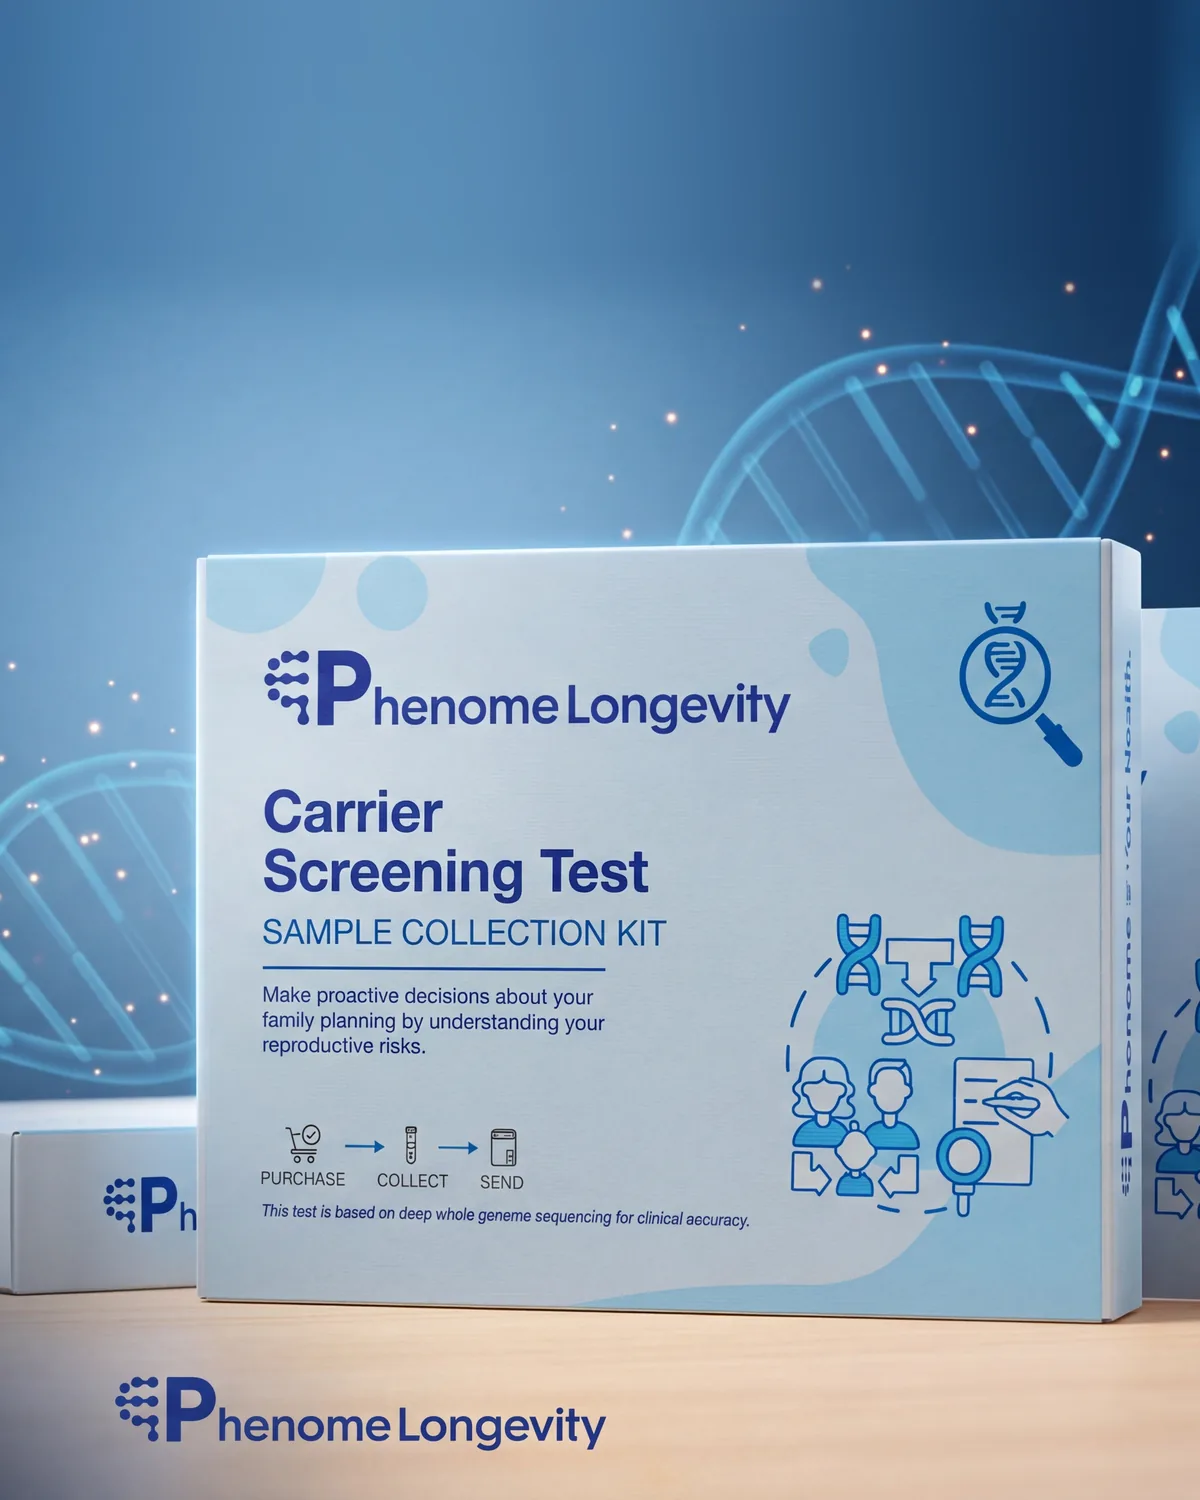
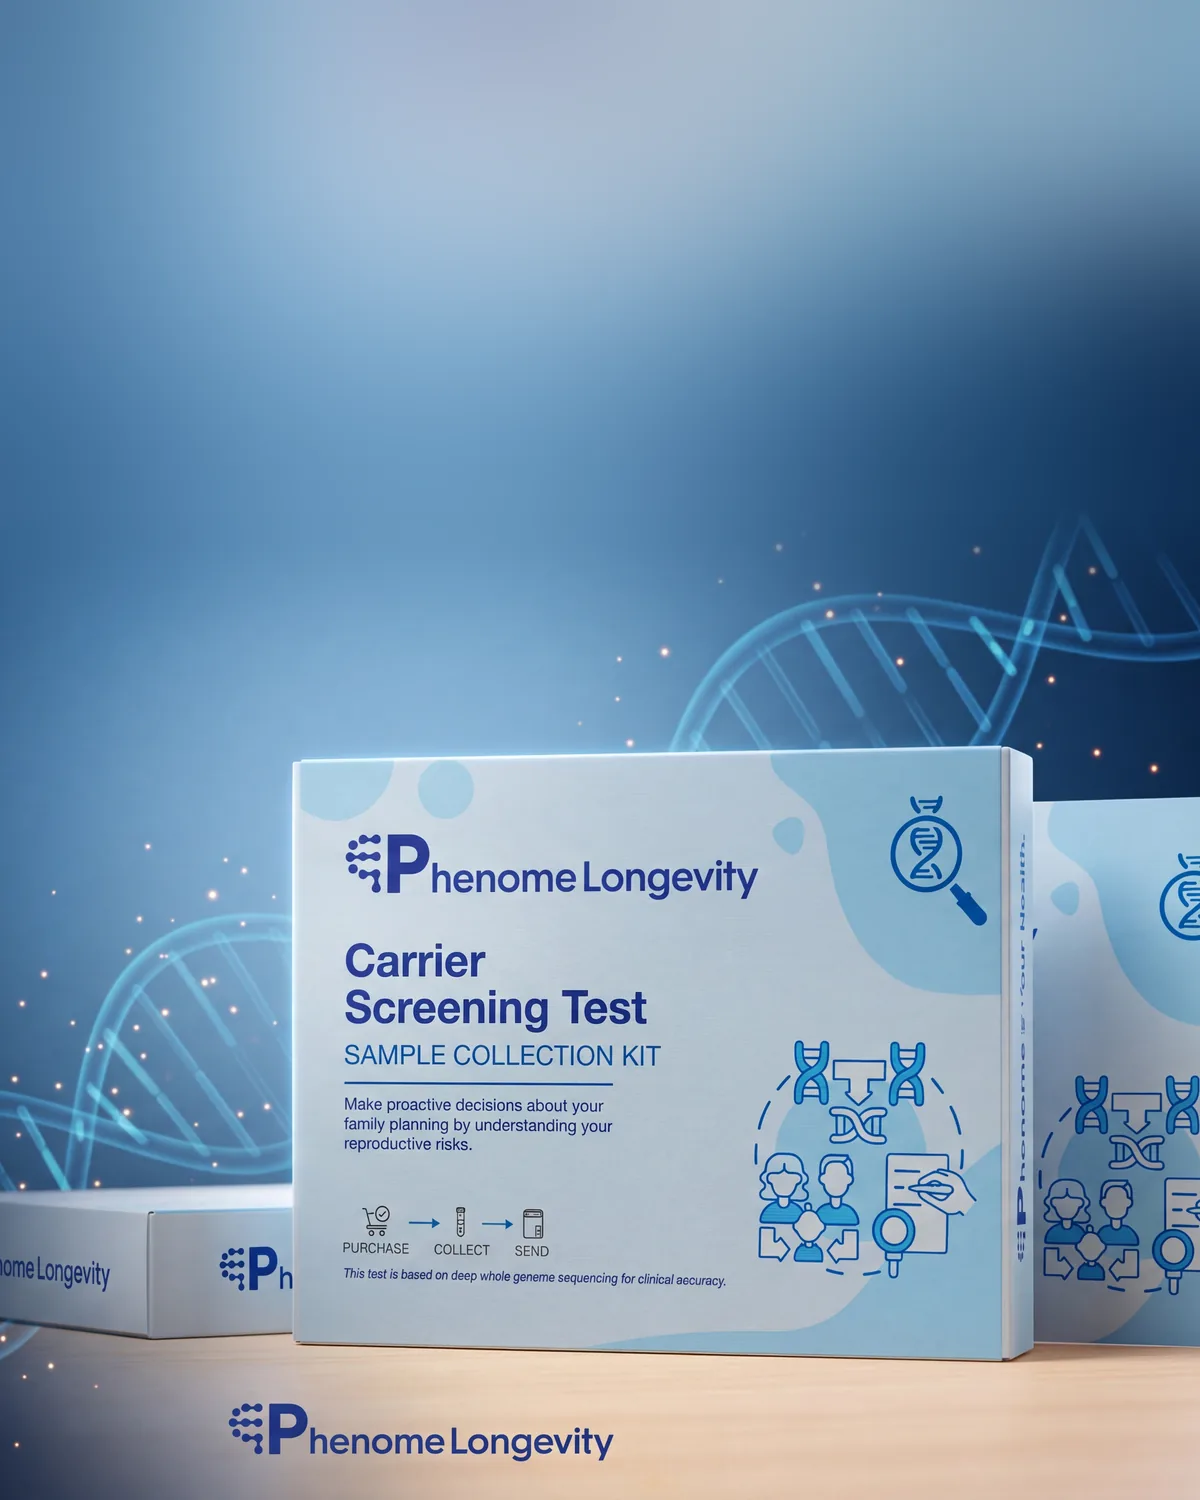
style(store): carrier gallery drops the first slide, four kit shots given more room

diff --git a/testing/carrier-screening/index.html b/testing/carrier-screening/index.html
@@ -14,7 +14,7 @@
      sheet and script are LINKED, not copied, so a change there reaches every
      test page. Everything here is this test's own words and pictures. -->
 <link href="/phenome-store/testing/comprehensive-genomic/cg.css" rel="stylesheet"/>
-<link rel="preload" as="image" href="/phenome-store/assets/carrier/gal-kit.webp" fetchpriority="high"/>
+<link rel="preload" as="image" href="/phenome-store/assets/carrier/gal-studio.webp" fetchpriority="high"/>
 
 </head>
 <body class="cgp" data-dock-thumb="/phenome-store/assets/shop/test-carrier.webp" data-dock-meta="£390, results in 2 to 3 weeks">
@@ -56,34 +56,31 @@
 <div class="cg-gal">
 <div class="cg-gal-main" data-gal-main="" role="region" aria-roledescription="carousel" aria-label="Kit images">
 <div class="cg-gal-track" data-gal-track="">
-<div class="cg-slide" data-slide="" data-n="0" role="group" aria-roledescription="slide" aria-label="1 of 10">
-<img alt="The Carrier Screening Test collection kit" fetchpriority="high" height="1650" src="/phenome-store/assets/carrier/gal-kit.webp" width="1200"/>
+<div class="cg-slide" data-slide="" data-n="0" role="group" aria-roledescription="slide" aria-label="1 of 9">
+<img alt="The Carrier Screening Test kit on a pale wooden shelf" fetchpriority="high" height="1500" src="/phenome-store/assets/carrier/gal-studio.webp" width="1200"/>
 </div>
-<div class="cg-slide" data-slide="" data-n="1" role="group" aria-roledescription="slide" aria-label="2 of 10">
-<img alt="The Carrier Screening Test kit on a pale wooden shelf" decoding="async" loading="lazy" height="1500" src="/phenome-store/assets/carrier/gal-studio.webp" width="1200"/>
-</div>
-<div class="cg-slide" data-slide="" data-n="2" role="group" aria-roledescription="slide" aria-label="3 of 10">
+<div class="cg-slide" data-slide="" data-n="1" role="group" aria-roledescription="slide" aria-label="2 of 9">
 <img alt="The Carrier Screening Test kit on a desk beside a phone showing results in the Phenome app" decoding="async" loading="lazy" height="1500" src="/phenome-store/assets/carrier/gal-app.webp" width="1200"/>
 </div>
-<div class="cg-slide" data-slide="" data-n="3" role="group" aria-roledescription="slide" aria-label="4 of 10">
+<div class="cg-slide" data-slide="" data-n="2" role="group" aria-roledescription="slide" aria-label="3 of 9">
 <img alt="Two Carrier Screening Test kits stacked on a table" decoding="async" loading="lazy" height="1500" src="/phenome-store/assets/carrier/gal-stack.webp" width="1200"/>
 </div>
-<div class="cg-slide" data-slide="" data-n="4" role="group" aria-roledescription="slide" aria-label="5 of 10">
+<div class="cg-slide" data-slide="" data-n="3" role="group" aria-roledescription="slide" aria-label="4 of 9">
 <img alt="A phone saying the screening report is ready, next to the Carrier Screening Test kit" decoding="async" loading="lazy" height="1500" src="/phenome-store/assets/carrier/gal-ready.webp" width="1200"/>
 </div>
-<div class="cg-slide" data-slide="" data-n="5" role="group" aria-roledescription="slide" aria-label="6 of 10">
+<div class="cg-slide" data-slide="" data-n="4" role="group" aria-roledescription="slide" aria-label="5 of 9">
 <img alt="The Carrier Screening Test kit on a bedside table in morning light" decoding="async" loading="lazy" height="1500" src="/phenome-store/assets/carrier/gal-bed.webp" width="1200"/>
 </div>
-<div class="cg-slide" data-slide="" data-n="6" role="group" aria-roledescription="slide" aria-label="7 of 10">
+<div class="cg-slide" data-slide="" data-n="5" role="group" aria-roledescription="slide" aria-label="6 of 9">
 <img alt="The Carrier Screening Test kit on a round display stand" decoding="async" loading="lazy" height="1500" src="/phenome-store/assets/carrier/gal-stand.webp" width="1200"/>
 </div>
-<div class="cg-slide" data-slide="" data-n="7" role="group" aria-roledescription="slide" aria-label="8 of 10">
+<div class="cg-slide" data-slide="" data-n="6" role="group" aria-roledescription="slide" aria-label="7 of 9">
 <img alt="The Carrier Screening Test kit on a kitchen window sill" decoding="async" loading="lazy" height="1500" src="/phenome-store/assets/carrier/gal-kitchen.webp" width="1200"/>
 </div>
-<div class="cg-slide" data-slide="" data-n="8" role="group" aria-roledescription="slide" aria-label="9 of 10">
+<div class="cg-slide" data-slide="" data-n="7" role="group" aria-roledescription="slide" aria-label="8 of 9">
 <img alt="The Carrier Screening Test kit against a deep blue DNA backdrop" decoding="async" loading="lazy" height="1500" src="/phenome-store/assets/carrier/gal-dna.webp" width="1200"/>
 </div>
-<div class="cg-slide cg-slide-facts" data-slide="" data-n="9" role="group" aria-roledescription="slide" aria-label="10 of 10">
+<div class="cg-slide cg-slide-facts" data-slide="" data-n="8" role="group" aria-roledescription="slide" aria-label="9 of 9">
 <span class="cg-facts" data-facts="">
 <span class="cg-facts-h">The specification</span>
 <span class="cg-facts-r cg-facts-top"><span>Method</span><b>Whole genome sequencing</b></span>
